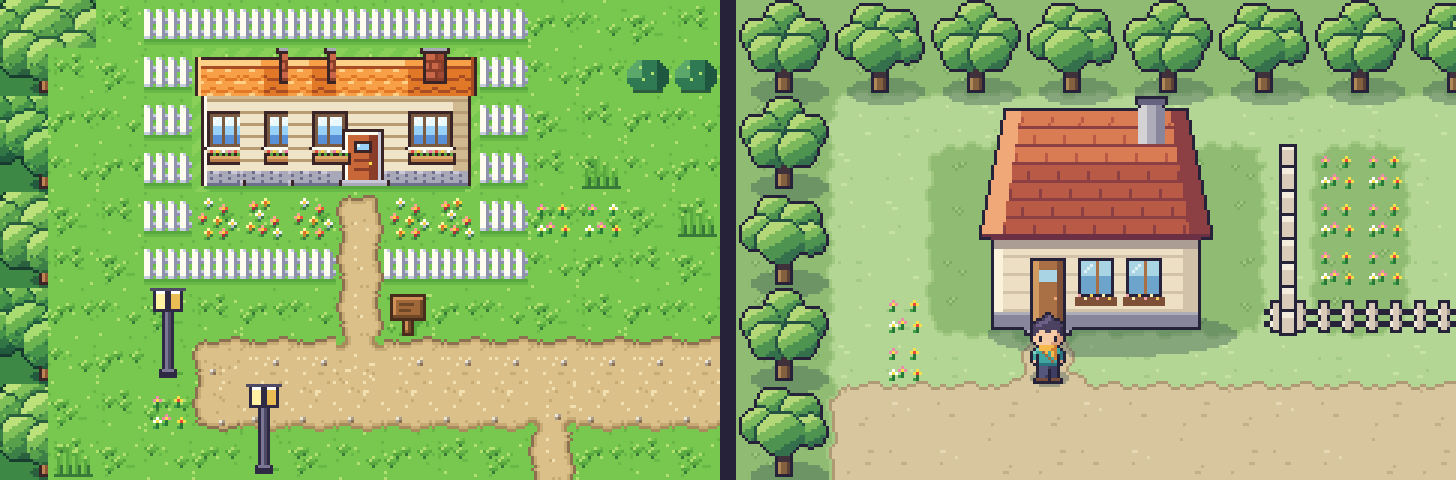
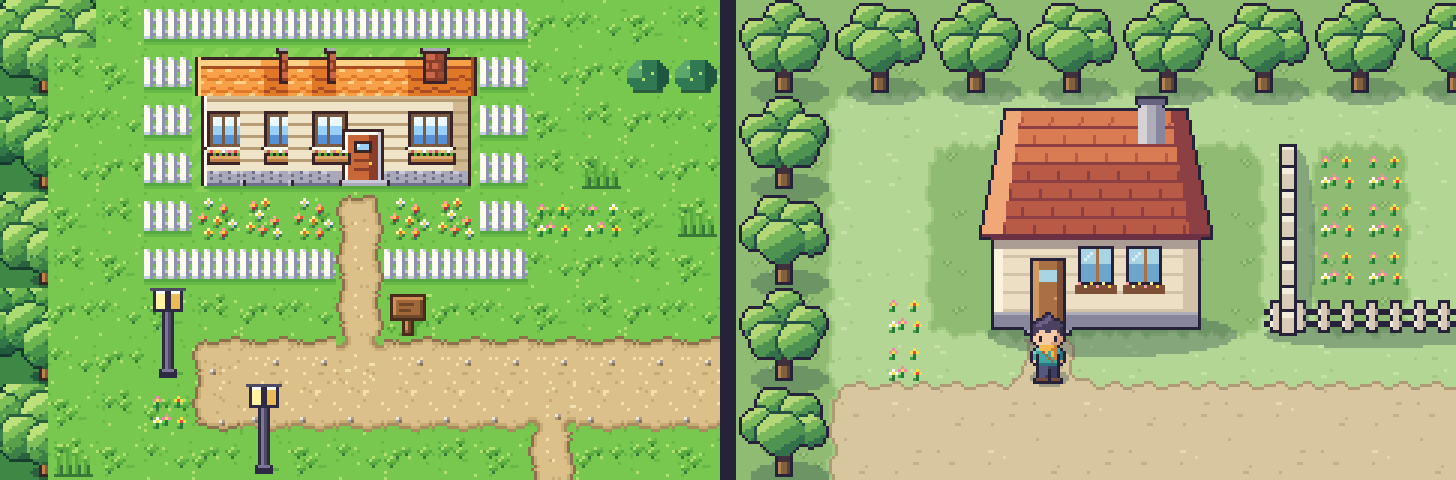
Fix slice review findings and tighten its art checks

diff --git a/scripts/overworld_art/test_slice.py b/scripts/overworld_art/test_slice.py
@@ -9,7 +9,7 @@ import unittest
 
 from PIL import Image, ImageOps
 
-from .slice_art import fence, ground_layer, house, luma, mean_saturation, meadow, player_frames, tree
+from .slice_art import fence, ground_layer, house, luma, mean_saturation, meadow, player_frames, tree, variant_at
 from .slice_scene import GRID, before, scene
 from .world_palette import LINE, WORLD
 
@@ -48,6 +48,24 @@ class Ground(unittest.TestCase):
         rows = [sum(hex_at(img, x, y) in trail for x in range(48)) for y in range(48)]
         self.assertGreater(len({r for r in rows if r}), 3)
 
+    def test_variants_do_not_repeat_on_a_grid(self):
+        for period in (2, 4, 8):
+            self.assertFalse(all(variant_at(x, y) == variant_at(x + period, y)
+                                 for x in range(16) for y in range(16)))
+
+    def test_meadow_variants_differ_with_plain_edges(self):
+        self.assertEqual(len({meadow(v).tobytes() for v in range(4)}), 4)
+        for v in range(4):
+            edge = {hex_at(meadow(v), x, y) for x in range(16) for y in (0, 15)}
+            self.assertEqual(edge, {WORLD["meadow"][1]})
+
+    def test_long_edges_wander_without_repeating_each_tile(self):
+        img = ground_layer(["." * 6, "," * 6, "," * 6, "." * 6])
+        trail = set(WORLD["trail"])
+        top = [next(y for y in range(64) if hex_at(img, x, y) in trail) for x in range(96)]
+        self.assertGreaterEqual(len(set(top)), 3)
+        self.assertNotEqual(top[:16], top[16:32])
+
     def test_ground_is_opaque_and_never_black(self):
         img = ground_layer([".l,", "ll,", ",,,"])
         self.assertTrue(all(c[3] == 255 and c[:3] != (0, 0, 0) for _, c in img.getcolors(9999)))
@@ -62,12 +80,19 @@ class Objects(unittest.TestCase):
     def test_house_roof_takes_over_half(self):
         roof, h = set(WORLD["roof_clay"]), house()
         rows = [y for y in range(80) if any(hex_at(h, x, y) in roof for x in range(80))]
-        self.assertGreaterEqual(max(rows) + 1, 42)
+        self.assertGreaterEqual(len(rows), 42)
+        self.assertLess(max(rows), 48)
 
     def test_windows_never_cross_a_tile_edge(self):
         glass, h = set(WORLD["glass"]), house()
-        for edge in (16, 32, 48, 64):
-            self.assertFalse(any(hex_at(h, edge - 1, y) in glass and hex_at(h, edge, y) in glass for y in range(80)))
+        cells = [(x, y) for y in range(80) for x in range(80) if hex_at(h, x, y) in glass]
+        for axis in (0, 1):
+            run = []
+            for v in sorted({c[axis] for c in cells}) + [999]:
+                if run and v - run[-1] > 2:  # a 1px mullion does not split a window
+                    self.assertEqual(run[0] // 16, run[-1] // 16)
+                    run = []
+                run.append(v)
 
     def test_fence_sizes(self):
         self.assertEqual(fence(4).size, (64, 16))
@@ -95,9 +120,15 @@ class Player(unittest.TestCase):
             self.assertLessEqual(len([c for c in f.getcolors(999) if c[1][3]]), 15)
 
     def test_outline_stands_out_from_every_ground(self):
-        line = luma(solid(LINE))[0]
-        for ramp in ("meadow", "lawn", "trail"):
-            self.assertGreaterEqual(min(luma(solid(c))[0] for c in WORLD[ramp]) - line, 0.40)
+        darkest_ground = min(luma(solid(c))[0] for ramp in ("meadow", "lawn", "trail") for c in WORLD[ramp])
+        for f in player_frames().values():
+            px = f.load()
+            for y in range(32):
+                for x in range(16):
+                    if px[x, y][3] and any(not (0 <= x + dx < 16 and 0 <= y + dy < 32) or not px[x + dx, y + dy][3]
+                                           for dx, dy in ((1, 0), (-1, 0), (0, 1), (0, -1))):
+                        self.assertEqual(hex_at(f, x, y), LINE, (x, y))
+            self.assertGreaterEqual(darkest_ground - min(luma(f)), 0.40)
 
 
 class Scene(unittest.TestCase):
@@ -108,6 +139,10 @@ class Scene(unittest.TestCase):
 
     def test_before_matches_the_frame(self):
         self.assertEqual(before().size, (240, 160))
+
+    def test_fence_casts_a_shadow(self):
+        bare, full = ground_layer(GRID), scene()
+        self.assertTrue(any(bare.getpixel((x, 7 * 16 + 1)) != full.getpixel((x, 7 * 16 + 1)) for x in range(192, 240)))
 
     def test_no_pure_black(self):
         self.assertFalse(any(c[:3] == (0, 0, 0) for _, c in scene().convert("RGBA").getcolors(99999)))

diff --git a/scripts/overworld_art/slice_art.py b/scripts/overworld_art/slice_art.py
@@ -5,11 +5,11 @@ Rules live in docs/design/ART_BIBLE.md.
 """
 import colorsys
 import random
+import zlib
 from math import hypot, pi, sin
 
 from PIL import Image, ImageDraw, ImageFilter, ImageOps
 
-from .world_maps import hashed
 from .world_palette import LINE, WORLD
 
 T = 16
@@ -75,10 +75,15 @@ def _trail(variant):
 SURFACES = {".": meadow, "l": _lawn, ",": _trail}
 
 
+def variant_at(x, y):
+    """Surface variant for tile (x, y). A real mix: no repeat on a small grid."""
+    return zlib.crc32(f"{x},{y}".encode()) % 4
+
+
 def _wave(x, y, salt):
-    """Low-frequency edge noise. Period 16, so a tile depends only on its
-    neighbours and Phase 1 can cut this into a blob tile set."""
-    return (sin(2 * pi * (x + 2 * y) / 16 + salt) + sin(2 * pi * (2 * x - y) / 16 + 2 * salt)) * 22
+    """Low-frequency edge noise. Period 32, so a tile depends only on its
+    neighbours and its position parity: Phase 1 cuts each blob tile in 2x2 variants."""
+    return (sin(2 * pi * (3 * x + 2 * y) / 32 + salt) + sin(2 * pi * (5 * x - 3 * y) / 32 + 2 * salt)) * 22
 
 
 def _field(cells, material):
@@ -107,7 +112,7 @@ def ground_layer(cells):
     px_out = out.load()
     rims = {",": (*rgb(WORLD["trail"][3]), 255), "l": (*rgb(WORLD["lawn"][0]), 255)}
     for (px, py), m in owner.items():
-        v = hashed(px // T, py // T) % 4
+        v = variant_at(px // T, py // T)
         px_out[px, py] = tiles[m, v][px % T, py % T]
         if m in rims and any(owner.get((px + dx, py + dy), m) != m for dx, dy in ((1, 0), (-1, 0), (0, 1), (0, -1))):
             px_out[px, py] = rims[m]
@@ -167,14 +172,14 @@ def _window(d, col):
     """One window inside tile column `col`, with a planter under it."""
     x0, x1 = col * T + 2, col * T + 13
     glass, wood = WORLD["glass"], WORLD["wood"]
-    d.rectangle((x0, 54, x1, 66), fill=LINE)
-    d.rectangle((x0 + 1, 55, x1 - 1, 59), fill=glass[1])
-    d.rectangle((x0 + 1, 60, x1 - 1, 65), fill=glass[2])
-    d.line((x0 + 2, 58, x0 + 4, 56), fill=glass[0])
-    d.line((x0 + 6, 55, x0 + 6, 65), fill=wood[1])
-    d.rectangle((x0 - 1, 67, x1 + 1, 69), fill=wood[2])
+    d.rectangle((x0, 50, x1, 62), fill=LINE)
+    d.rectangle((x0 + 1, 51, x1 - 1, 55), fill=glass[1])
+    d.rectangle((x0 + 1, 56, x1 - 1, 61), fill=glass[2])
+    d.line((x0 + 2, 54, x0 + 4, 52), fill=glass[0])
+    d.line((x0 + 6, 51, x0 + 6, 61), fill=wood[1])
+    d.rectangle((x0 - 1, 63, x1 + 1, 65), fill=wood[2])
     for i, x in enumerate(range(x0, x1 + 1, 2)):  # planter blooms
-        d.point((x, 66 + i % 2), fill=("#f4a0a8", "#fff2b0", "#f7d060")[i % 3])
+        d.point((x, 62 + i % 2), fill=("#f4a0a8", "#fff2b0", "#f7d060")[i % 3])
 
 
 def house():
@@ -218,7 +223,7 @@ def house():
     d.rectangle((dx + 3, 55, dx + 4, 77), fill=wood[0])
     d.rectangle((dx + 11, 55, dx + 12, 77), fill=wood[2])
     d.rectangle((dx + 5, 58, dx + 10, 61), fill=WORLD["glass"][1])
-    d.point((dx + 10, 67), fill=WORLD["roof_clay"][0])
+    d.point((dx + 10, 67), fill=wood[0])
     d.rectangle((dx, 78, dx + 15, 79), fill=stone[1])
     _window(d, 2)
     _window(d, 3)
@@ -318,7 +323,7 @@ PLAYER_LEFT = """
 ..ossessssShhdo.
 ..ossesssSShdo..
 ...ossssSSddo...
-....oaaaaaAo....
+....oaaaaaAoo...
 ....oaaaaAAaao..
 ....oKjjjjJaAo..
 ....oKjbjjJoo...

diff --git a/scripts/overworld_art/slice_scene.py b/scripts/overworld_art/slice_scene.py
@@ -52,6 +52,8 @@ def scene():
     shadows = Image.new("RGBA", img.size)
     _shadow(shadows, hx + 4, hy + 72, hx + 86, hy + 86)
     _shadow(shadows, px + 2, py + 11, px + 14, py + 16)
+    _shadow(shadows, 11 * T, 6 * T + 11, 15 * T + 8, 6 * T + 19)
+    _shadow(shadows, 11 * T + 6, 3 * T + 2, 11 * T + 16, 7 * T)
     for x, y, _ in TREES:
         _shadow(shadows, x * T + 5, y * T + 26, x * T + 30, y * T + 34)
     img.alpha_composite(shadows)

diff --git a/docs/design/ART_BIBLE.md b/docs/design/ART_BIBLE.md
@@ -18,9 +18,9 @@ GBA-era top-down pixel art is the genre. `pret/pokefirered/graphics` and screens
 
 ## Outlines and shadows
 
-- Outlines belong to objects only, in `LINE` from `world_palette.py`. Ground has none.
-- Every standing object gets a soft contact shadow, `SHADOW` from `world_palette.py`.
-- Dither only on ground transitions.
+- Outlines belong to objects only, in `LINE` from `world_palette.py`. Ground has none. Trail and lawn may end in a one-pixel edge from their own ramp.
+- Every standing object gets a contact shadow: translucent `SHADOW` from `world_palette.py`, hard pixel edge. Flat decals such as flowers get none.
+- Ground transitions wander and round off. No dither is needed.
 
 ## Ground
 
